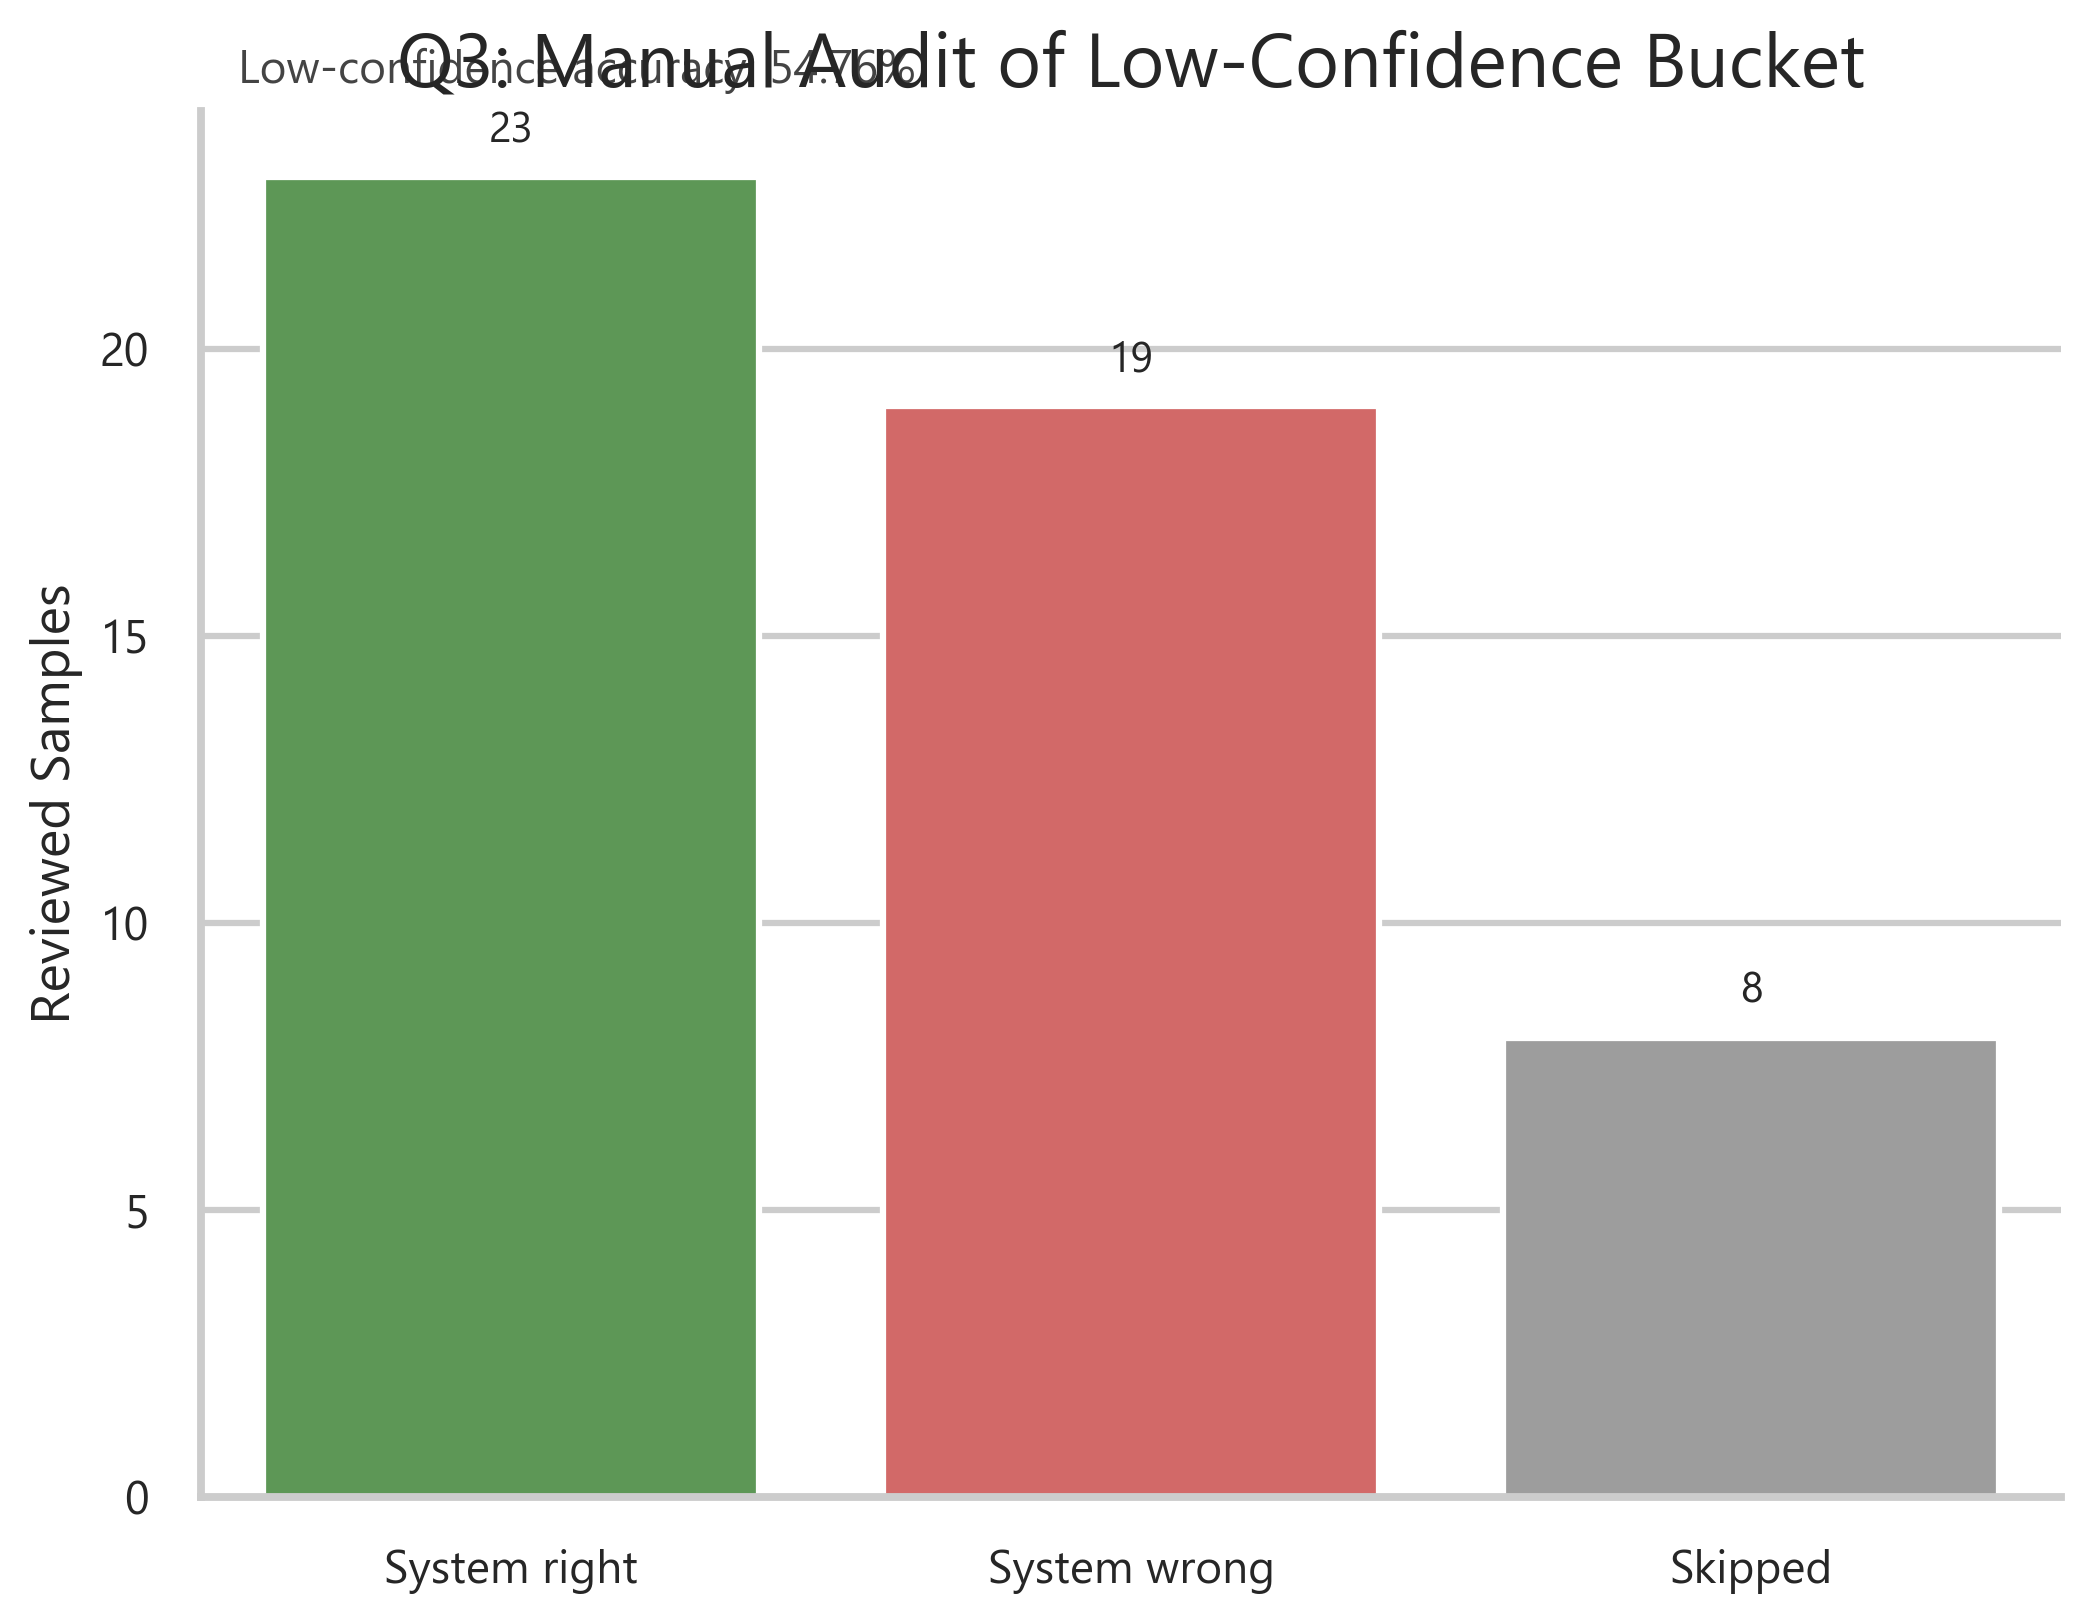
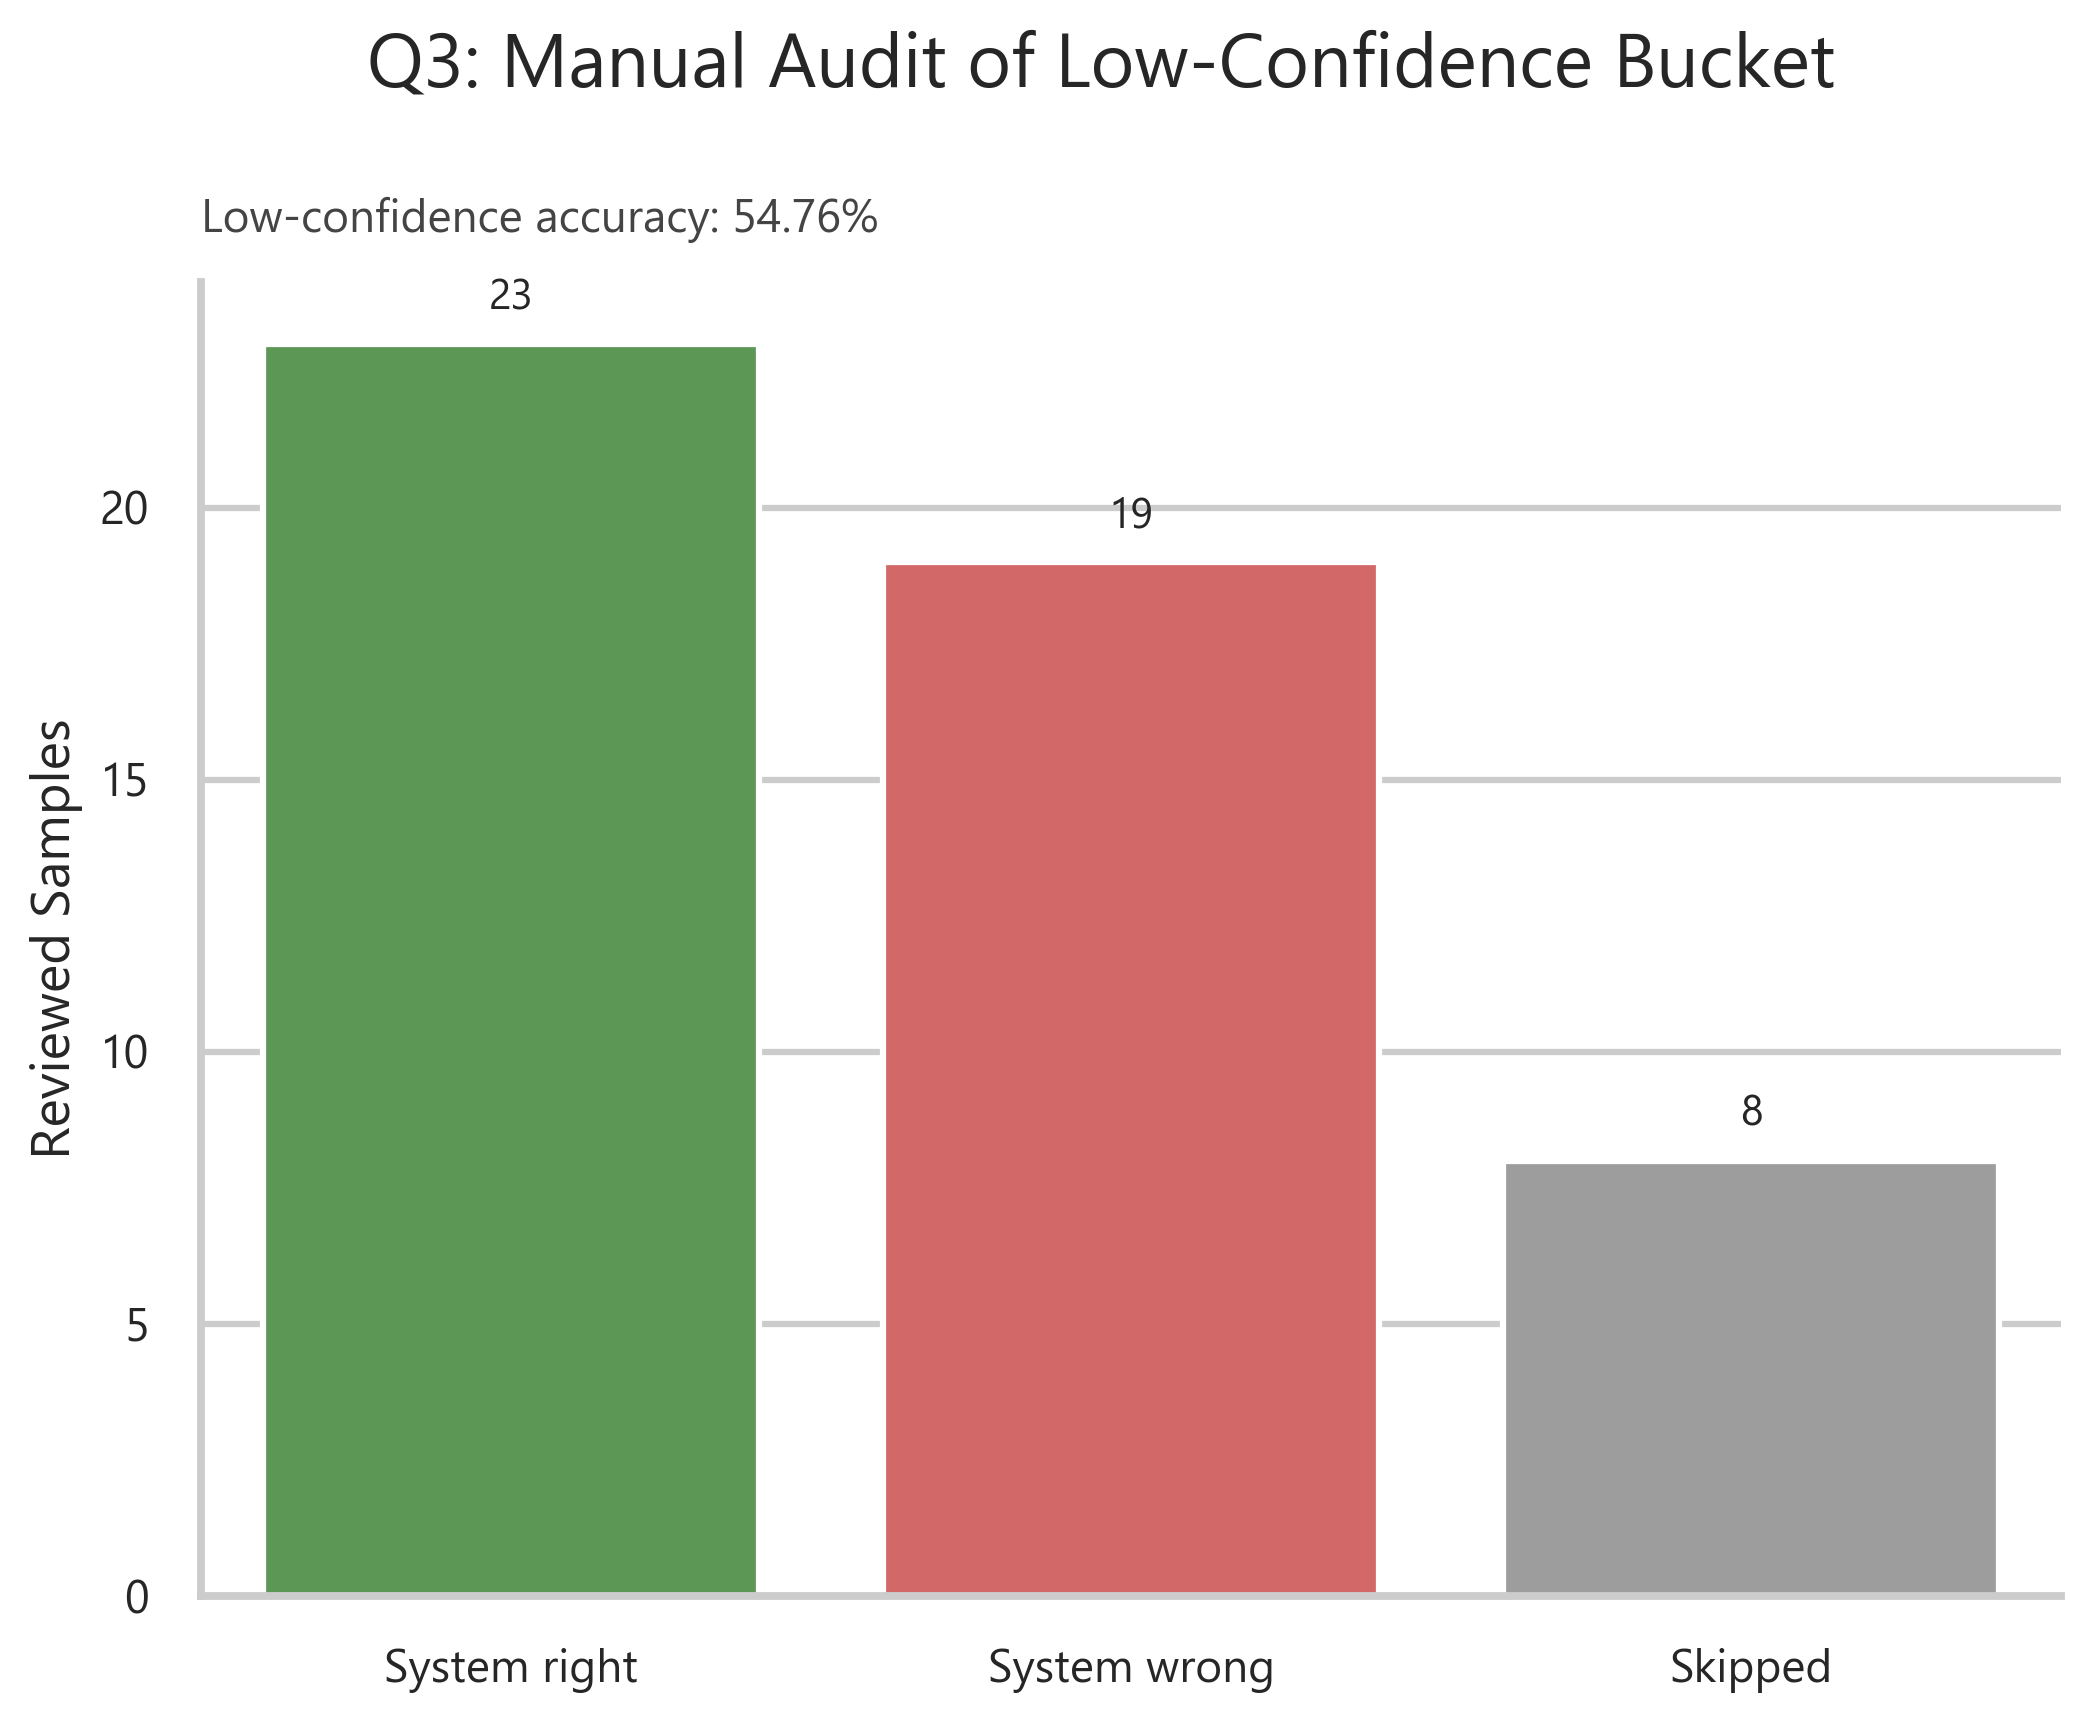
Added Plots & Charts

diff --git a/src/report_plots/assignment_plots.py b/src/report_plots/assignment_plots.py
@@ -306,11 +306,16 @@ def generate_q3_plots(outputs_dir: str | Path, figures_dir: str | Path) -> list[
     )
     fig, ax = plt.subplots(figsize=(8, 6))
     sns.barplot(data=audit_df, x="outcome", y="count", palette=["#54A24B", "#E45756", "#9D9D9D"], ax=ax)
-    ax.set_title("Q3: Manual Audit of Low-Confidence Bucket")
+    fig.suptitle(
+        "Q3: Manual Audit of Low-Confidence Bucket",
+        fontsize=18,
+        fontweight="bold",
+        y=0.98,
+    )
     ax.set_xlabel("")
     ax.set_ylabel("Reviewed Samples")
     subtitle = f"Low-confidence accuracy: {q3_eval['low_confidence_accuracy']:.2%}"
-    ax.text(0.02, 1.02, subtitle, transform=ax.transAxes, fontsize=11, color="#444444")
+    ax.set_title(subtitle, fontsize=11, color="#444444", pad=12, loc="left")
     for patch, value in zip(ax.patches, audit_df["count"]):
         ax.annotate(
             f"{int(value)}",
@@ -321,6 +326,7 @@ def generate_q3_plots(outputs_dir: str | Path, figures_dir: str | Path) -> list[
             textcoords="offset points",
             fontsize=10,
         )
+    fig.subplots_adjust(top=0.84)
     saved_paths.append(save_figure(fig, figures_dir / "q3_low_confidence_audit.png"))
 
     return saved_paths
@@ -384,7 +390,12 @@ def generate_q4_plots(outputs_dir: str | Path, figures_dir: str | Path) -> list[
     if not case_df.empty:
         fig, ax = plt.subplots(figsize=(10, 6))
         sns.barplot(data=case_df, x="model_name", y="improved_cases", palette="crest", ax=ax)
-        ax.set_title("Q4: Number of Utterances Helped by Lattice Scoring")
+        fig.suptitle(
+            "Q4: Number of Utterances Helped by Lattice Scoring",
+            fontsize=18,
+            fontweight="bold",
+            y=0.98,
+        )
         ax.set_xlabel("Model")
         ax.set_ylabel("Improved Utterance Cases")
         info = (
@@ -392,7 +403,7 @@ def generate_q4_plots(outputs_dir: str | Path, figures_dir: str | Path) -> list[
             f"Safeguards: {q4_summary['non_degradation_safeguards_applied']}   "
             f"Avg improvement: {q4_summary['improvement_percent']:.1f}%"
         )
-        ax.text(0.01, 1.02, info, transform=ax.transAxes, fontsize=11, color="#444444")
+        ax.set_title(info, fontsize=11, color="#444444", pad=12, loc="left")
         for patch, value in zip(ax.patches, case_df["improved_cases"]):
             ax.annotate(
                 f"{int(value)}",
@@ -403,6 +414,7 @@ def generate_q4_plots(outputs_dir: str | Path, figures_dir: str | Path) -> list[
                 textcoords="offset points",
                 fontsize=10,
             )
+        fig.subplots_adjust(top=0.84)
         saved_paths.append(save_figure(fig, figures_dir / "q4_improved_cases.png"))
 
     return saved_paths
